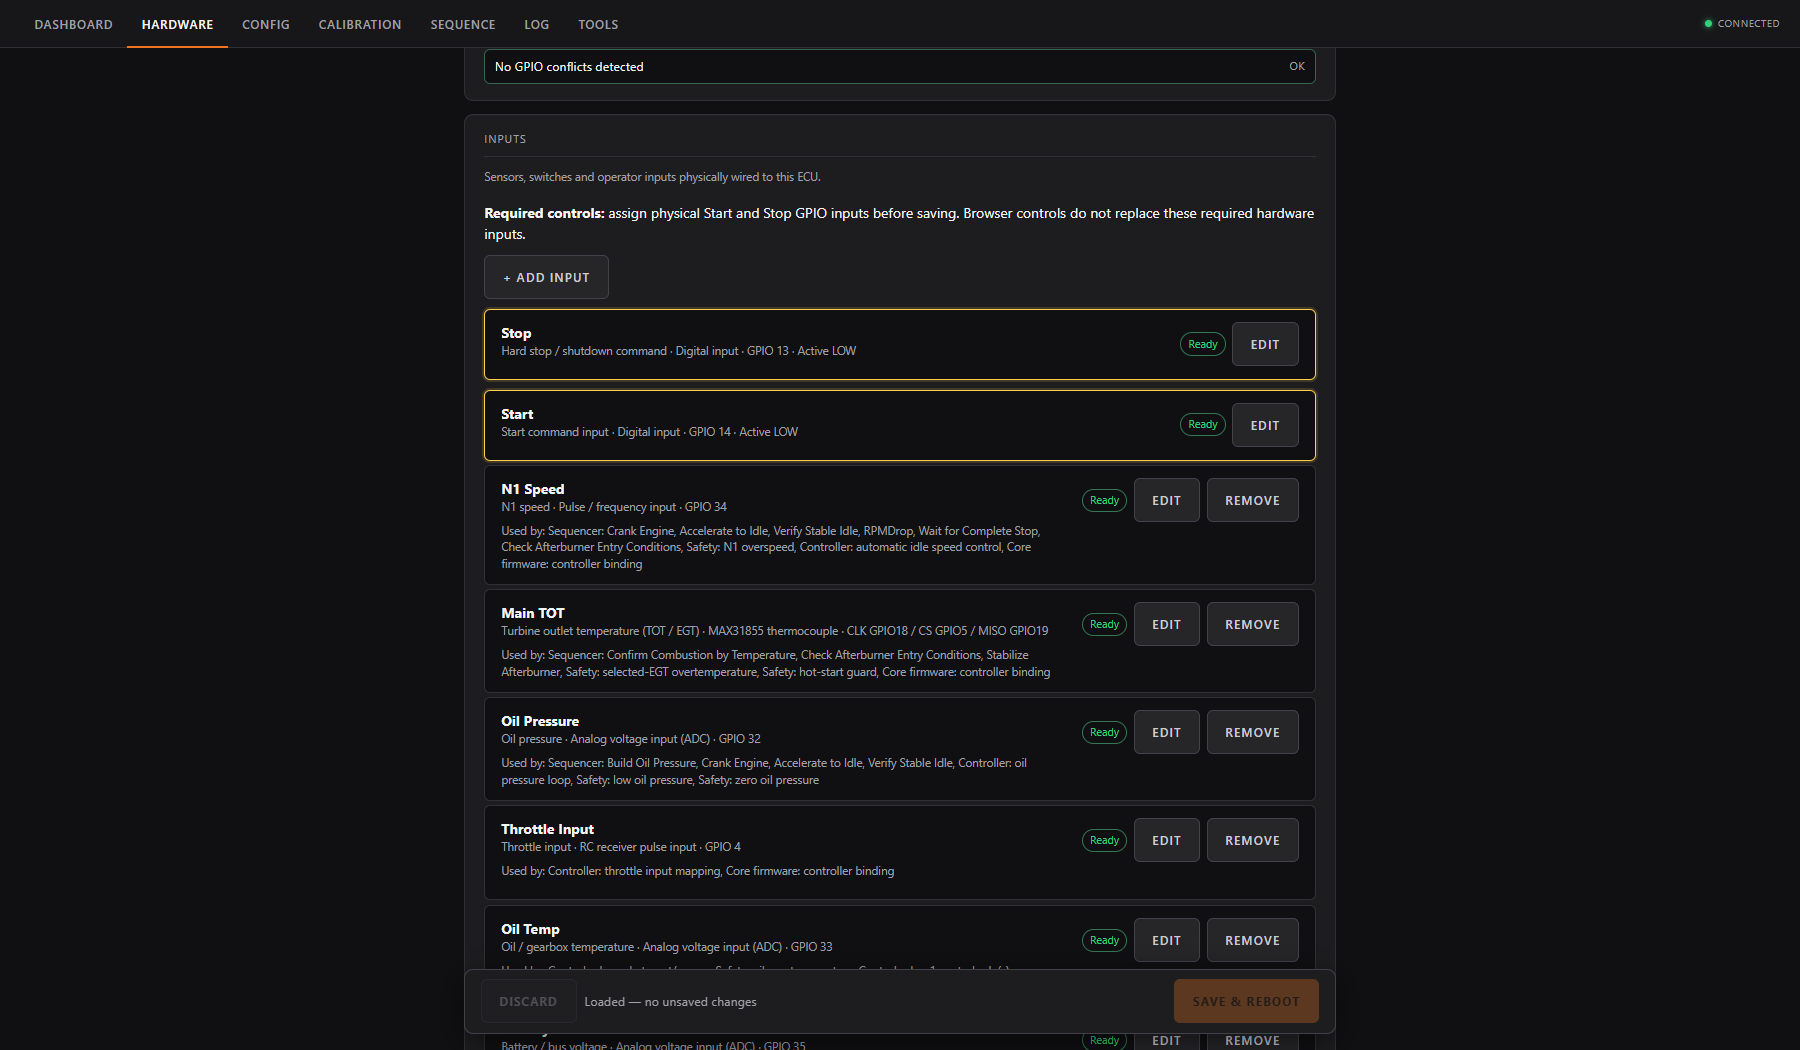
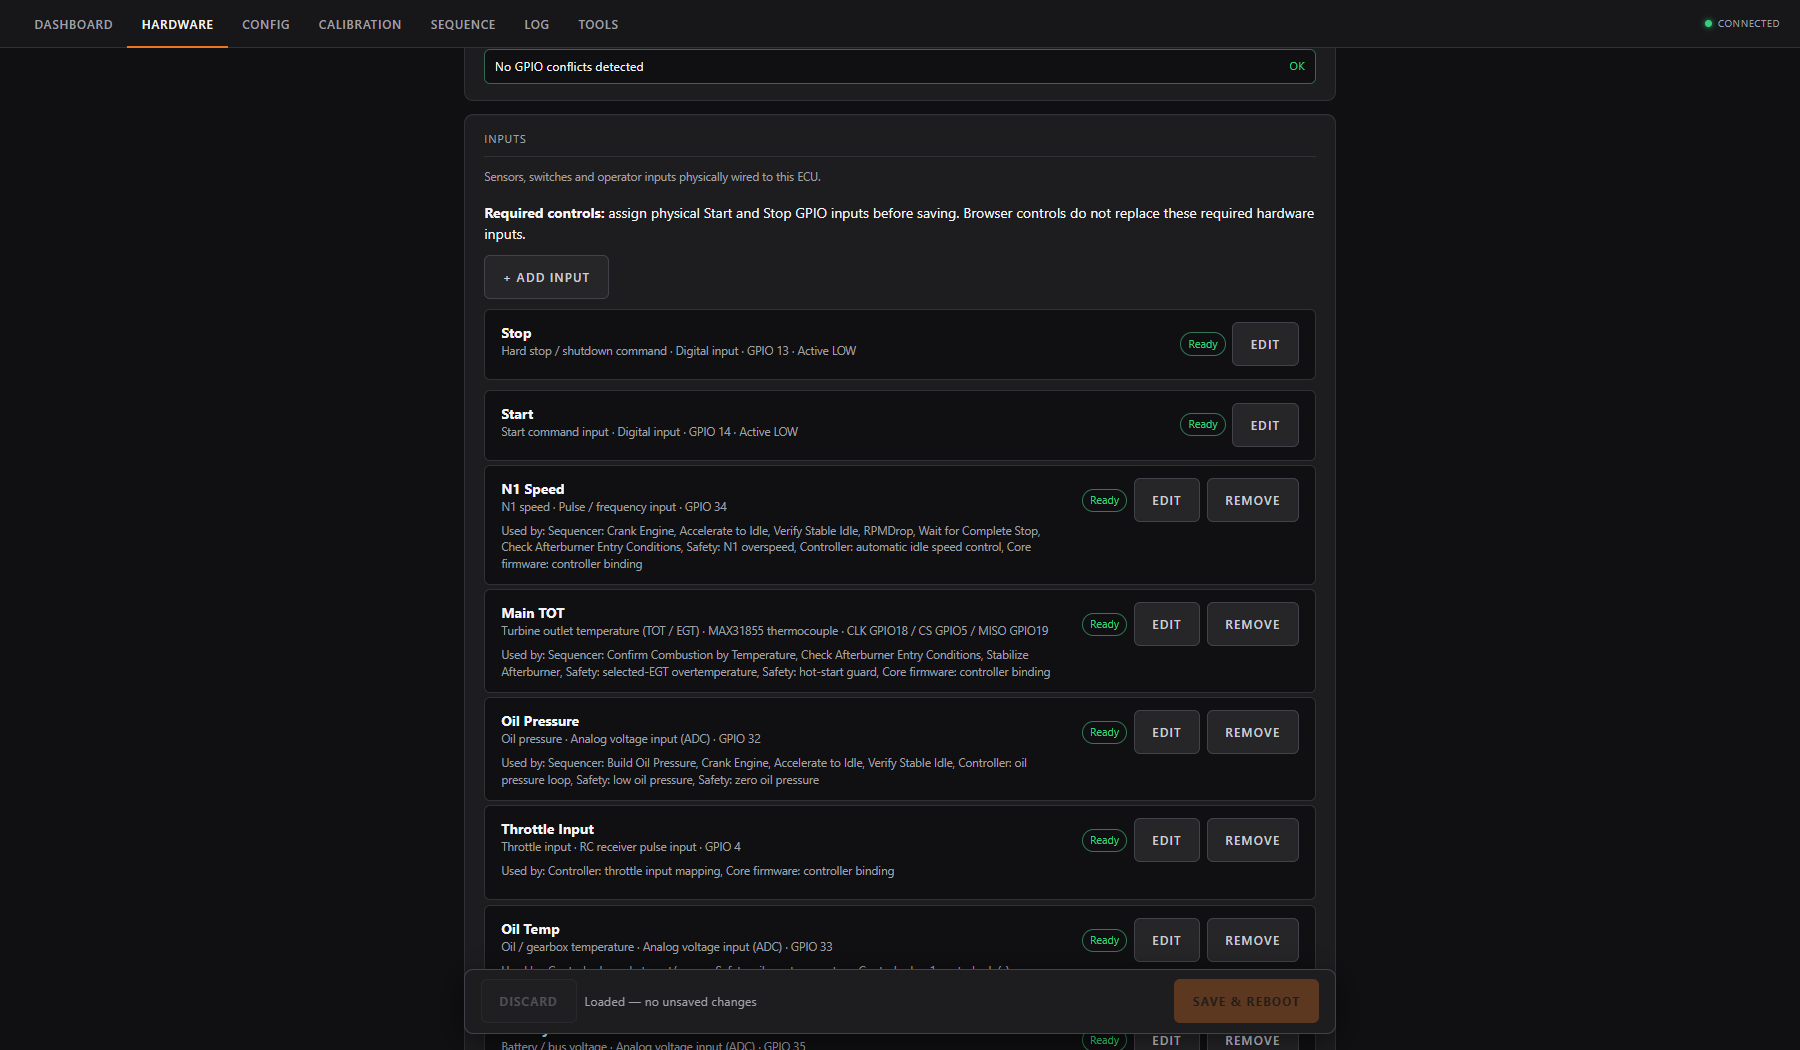
Clarify hardware states and sensor wiring

diff --git a/data_src/hardware.html b/data_src/hardware.html
@@ -905,6 +905,10 @@ async function loadHardware() {
     GPIO_DB = cfg.platform === 'esp32s3' ? GPIO_DB_ESP32S3 : GPIO_DB_ESP32;
     populate();
     _snapshotFields();   // baseline — any field that diverges from this gets the save-warning highlight
+    // populate() renders workflow cards before their comparison baseline exists.
+    // Render them once more against the completed snapshot so unchanged
+    // Start/Stop cards do not retain a stale yellow "changed" border.
+    renderHardwareWorkflowSummaries();
     _hwDirty = false;
     document.querySelector('.save-bar')?.classList.remove('is-dirty');
     document.getElementById('save-msg').textContent = 'Loaded — no unsaved changes';
@@ -1718,7 +1722,7 @@ function registryDefaultRange(direction, driver, role) {
   if (direction === 'input') {
     if (driver === 1) return {min:0, max:4095};
     if (driver === 2) {
-      if (role === 'speed') return {min:0, max:500000};
+      if (role === 'speed') return {min:0, max:1000000000};
       if (role === 'flow') return {min:0, max:1000};
       return {min:0, max:10000};
     }
@@ -1825,7 +1829,7 @@ function registryRangeMeta(direction, driver, role) {
       return {min:'Minimum ADC count', max:'Maximum ADC count', step:'1', limitMin:0, limitMax:4095};
     }
     if (d === 2) {
-      if (role === 'speed') return {min:'Minimum speed (RPM)', max:'Maximum speed (RPM)', step:'100', limitMin:0, limitMax:500000,
+      if (role === 'speed') return {min:'Minimum speed (RPM)', max:'Maximum speed (RPM)', step:'100', limitMin:0, limitMax:1000000000,
         note:'N1/N2 speed registry cards are claimed by the ESP32 PCNT RPM path, not the low-rate generic interrupt counter. Set pulses/rev below.'};
       if (role === 'flow') return {min:'Minimum flow (L/min)', max:'Maximum flow (L/min)', step:'0.01', limitMin:0,
         note:'Fuel-flow pulse cards use pulses/litre below; displayed flow is litres/min before any page-level unit conversion.'};
@@ -2076,6 +2080,7 @@ function registryCurrentEditor(direction, c, index) {
   const pin = dedicated ? act.current_pin : c.current_pin;
   const mvA = dedicated ? (act.current_mv_a ?? (actKey === 'glow_plug' ? 185 : 100)) : (c.current_mv_a ?? 100);
   const zeroV = dedicated ? (act.current_zero_v ?? 1.65) : (c.current_zero_v ?? 1.65);
+  const maxA = dedicated ? (act.current_max_a ?? 0) : (c.current_max_a ?? 0);
   const fieldSet = dedicated
     ? (field, expr) => `setActCurrentSensor('${actKey}','${field}',${expr})`
     : (field, expr) => {
@@ -2092,7 +2097,7 @@ function registryCurrentEditor(direction, c, index) {
       <div class="hw-field"><span class="hw-label">Sensor sensitivity (mV/A)</span><span class="hw-desc">Datasheet sensitivity at the ECU ADC pin. Example: ACS712-20A = 100 mV/A.</span><input type="number" min="1" max="10000" step="1" value="${registryFormatValue(mvA)}" oninput="${fieldSet('mv_a','+this.value')}"></div>
       <div class="hw-field"><span class="hw-label">Zero-current voltage (V)</span><span class="hw-desc">Sensor output voltage when no current flows.</span><input type="number" min="0" max="3.3" step="0.01" value="${registryFormatValue(zeroV)}" oninput="${fieldSet('zero_v','+this.value')}"></div>
        ${actKey === 'glow_plug' ? `<div class="hw-field"><span class="hw-label">Ready current (A)</span><input type="number" min="0" max="1000" step="0.1" value="${registryFormatValue(act.current_ready_a ?? 3)}" oninput="${fieldSet('ready_a','+this.value')}"></div>` : ''}
-       ${actKey === 'oil_pump' ? `<div class="hw-field"><span class="hw-label">Overcurrent trip (A)</span><span class="hw-desc">0 disables the oil-pump overcurrent trip.</span><input type="number" min="0" max="1000" step="0.1" value="${registryFormatValue(act.current_max_a ?? 0)}" oninput="${fieldSet('current_max_a','+this.value')}"></div>` : ''}
+       ${(!dedicated || actKey === 'oil_pump') ? `<div class="hw-field"><span class="hw-label">Overcurrent trip (A)</span><span class="hw-desc">Warn immediately and shut down after the configured continuous-current delay. 0 disables this output's trip.</span><input type="number" min="0" max="1000" step="0.1" value="${registryFormatValue(maxA)}" oninput="${fieldSet('current_max_a','+this.value')}"></div>` : ''}
     </div></div>` : ''}
   </div>`;
 }
@@ -2292,7 +2297,7 @@ function registryRangeProblem(c) {
   if (driver === 2) {
     if (min < 0) return 'Pulse range below 0';
     if (Number(c.pulses_per_unit ?? 1) <= 0) return 'Pulse scale invalid';
-    if (String(c.role || '') === 'speed' && max > 500000) return 'RPM range max 500000';
+    if (String(c.role || '') === 'speed' && max > 1000000000) return 'RPM range max 1000000000';
   }
   if (driver === 7 && (min < 0 || max > 1)) return 'PWM duty range 0-100%';
   if ((driver === 3 || driver === 6) && (min < 500 || max > 2500)) return 'Pulse width 500-2500 us';
@@ -2596,6 +2601,16 @@ function controlFieldChanged(which, key) {
   const after = key === 'label'
     ? (cfg?.labels || {})[which]
     : (cfg?.controls || {})[`${which}_${key}`];
+  // Optional switch fields acquire explicit defaults while the Hardware page
+  // loads. Compare their effective values so that undefined -> default does
+  // not paint an unchanged Start/Stop card as an unsaved yellow change.
+  if (key === 'label') {
+    const fallback = which === 'stop' ? 'Stop' : 'Start';
+    return String(before || fallback) !== String(after || fallback);
+  }
+  if (key === 'pin') return Number(before ?? -1) !== Number(after ?? -1);
+  if (key === 'pullup') return (before !== false) !== (after !== false);
+  if (key === 'active_h' || key === 'pulldown') return !!before !== !!after;
   return JSON.stringify(before) !== JSON.stringify(after);
 }
 function controlFieldClass(which, key) {
@@ -4573,7 +4588,6 @@ async function saveHardware() {
     if (!obj || obj[key] === undefined || obj[key] === null || obj[key] < 0) missing.push(label);
   };
   requirePin(cfg.controls, 'stop_pin', 'Stop button');
-  requirePin(cfg.controls, 'start_pin', 'Start button');
   for (const [key, label] of Object.entries({
     n1_rpm:'N1 RPM', n2_rpm:'N2 RPM', oil_press:'Oil Pressure', flame:'Flame Detector',
     fuel_flow:'Fuel Flow', fuel_press:'Fuel Pressure', p1:'Pressure 1', p2:'Pressure 2',
@@ -4842,7 +4856,7 @@ function applyContextTooltips(root) {
     'Pulses / litre': 'Fuel-flow sensor calibration. Flow is pulse rate converted to pulses/min, then divided by pulses/litre.',
     'Pulses / unit': 'Pulse scaling used for generic pulse/frequency conversion.',
     'Minimum speed (RPM)': 'Lower RPM endpoint for mapping this speed input.',
-    'Maximum speed (RPM)': 'Upper RPM endpoint for mapping this speed input. N1/N2 can be configured up to 500000 RPM.',
+    'Maximum speed (RPM)': 'Upper RPM endpoint for mapping this speed input. Extremely high values are accepted for unusual turbines but should be checked against the sensor and counter bandwidth.',
     'Minimum flow (L/min)': 'Lower flow endpoint for mapping this pulse flow input.',
     'Maximum flow (L/min)': 'Upper flow endpoint for mapping this pulse flow input.',
     'Mapped value': 'The firmware maps raw electrical input/output values into the normalized value used by rules and telemetry.',

diff --git a/data_src/style.css b/data_src/style.css
@@ -1203,6 +1203,9 @@ main.hw-installed-view .hw-section:not(#hardware-inputs-panel):not(#hardware-out
 .requirement-ok { border-color: color-mix(in srgb, var(--green) 35%, var(--border)); }
 .requirement-warn { border-color: color-mix(in srgb, var(--yellow) 45%, var(--border)); }
 .requirement-error { border-color: color-mix(in srgb, var(--red) 45%, var(--border)); }
+.requirement-ok .requirement-state { color: var(--green); }
+.requirement-warn .requirement-state { color: var(--yellow); }
+.requirement-error .requirement-state { color: var(--red); font-weight: 700; }
 .requirement-state {
   font-size: .68rem;
   text-transform: uppercase;

diff --git a/site/user-guide.md b/site/user-guide.md
@@ -128,6 +128,13 @@ Measure the conditioned output before attaching it to the GPIO. ESP32 GPIO uses 
 
 ### 5.2 Typical wiring by electrical type
 
+Click or tap this diagram to enlarge it. These four drawings show the exact meaning of power, ground and signal; replace the generic GPIO label with the pin you saved on the Hardware page.
+
+<figure>
+  <img class="system-diagram" src="{{ '/assets/images/sensor-switch-wiring.svg' | relative_url }}" width="1400" height="1040" alt="Four basic OpenTurbine wiring diagrams showing a three-wire 3.3 volt sensor, a 5 volt analog sensor through a divider, an open-collector pulse sensor with a pull-up, and an active-low command switch">
+  <figcaption>Basic input wiring. Red is power, grey is ground and blue is signal. Confirm every voltage from the actual component datasheet before connecting the ESP32.</figcaption>
+</figure>
+
 <div class="table-wrap"><table>
 <thead><tr><th>Electrical type selected in Hardware</th><th>Connection pattern</th><th>Important fields</th></tr></thead>
 <tbody>